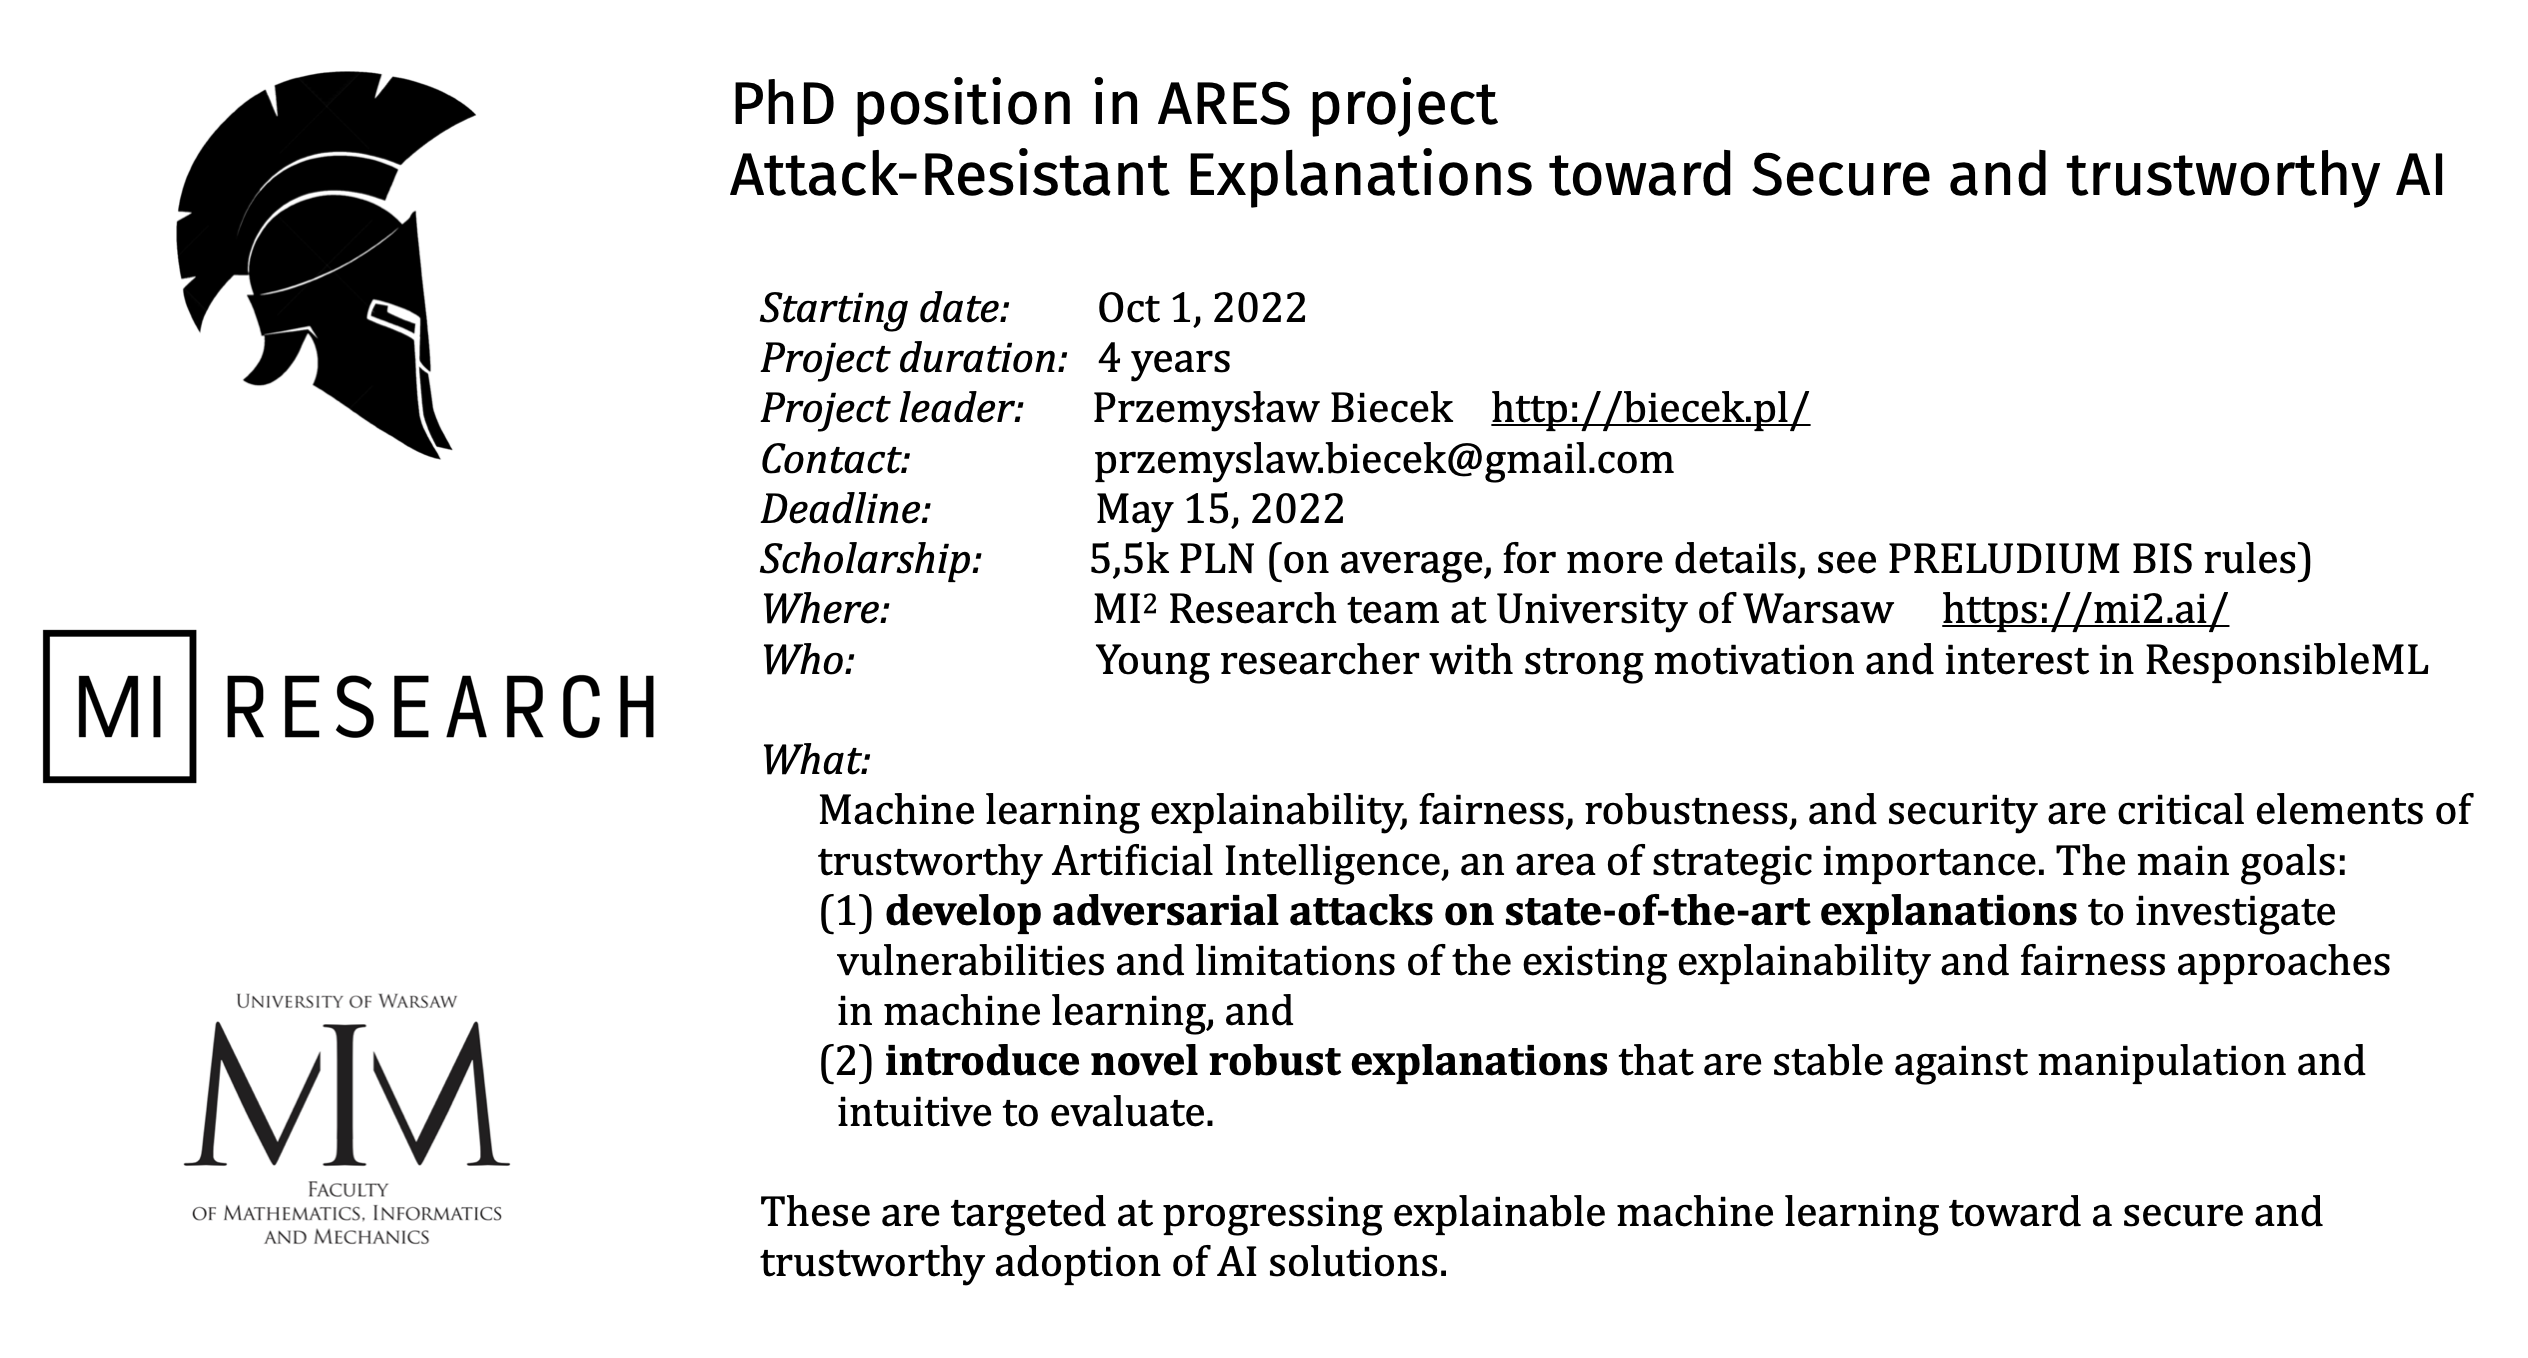
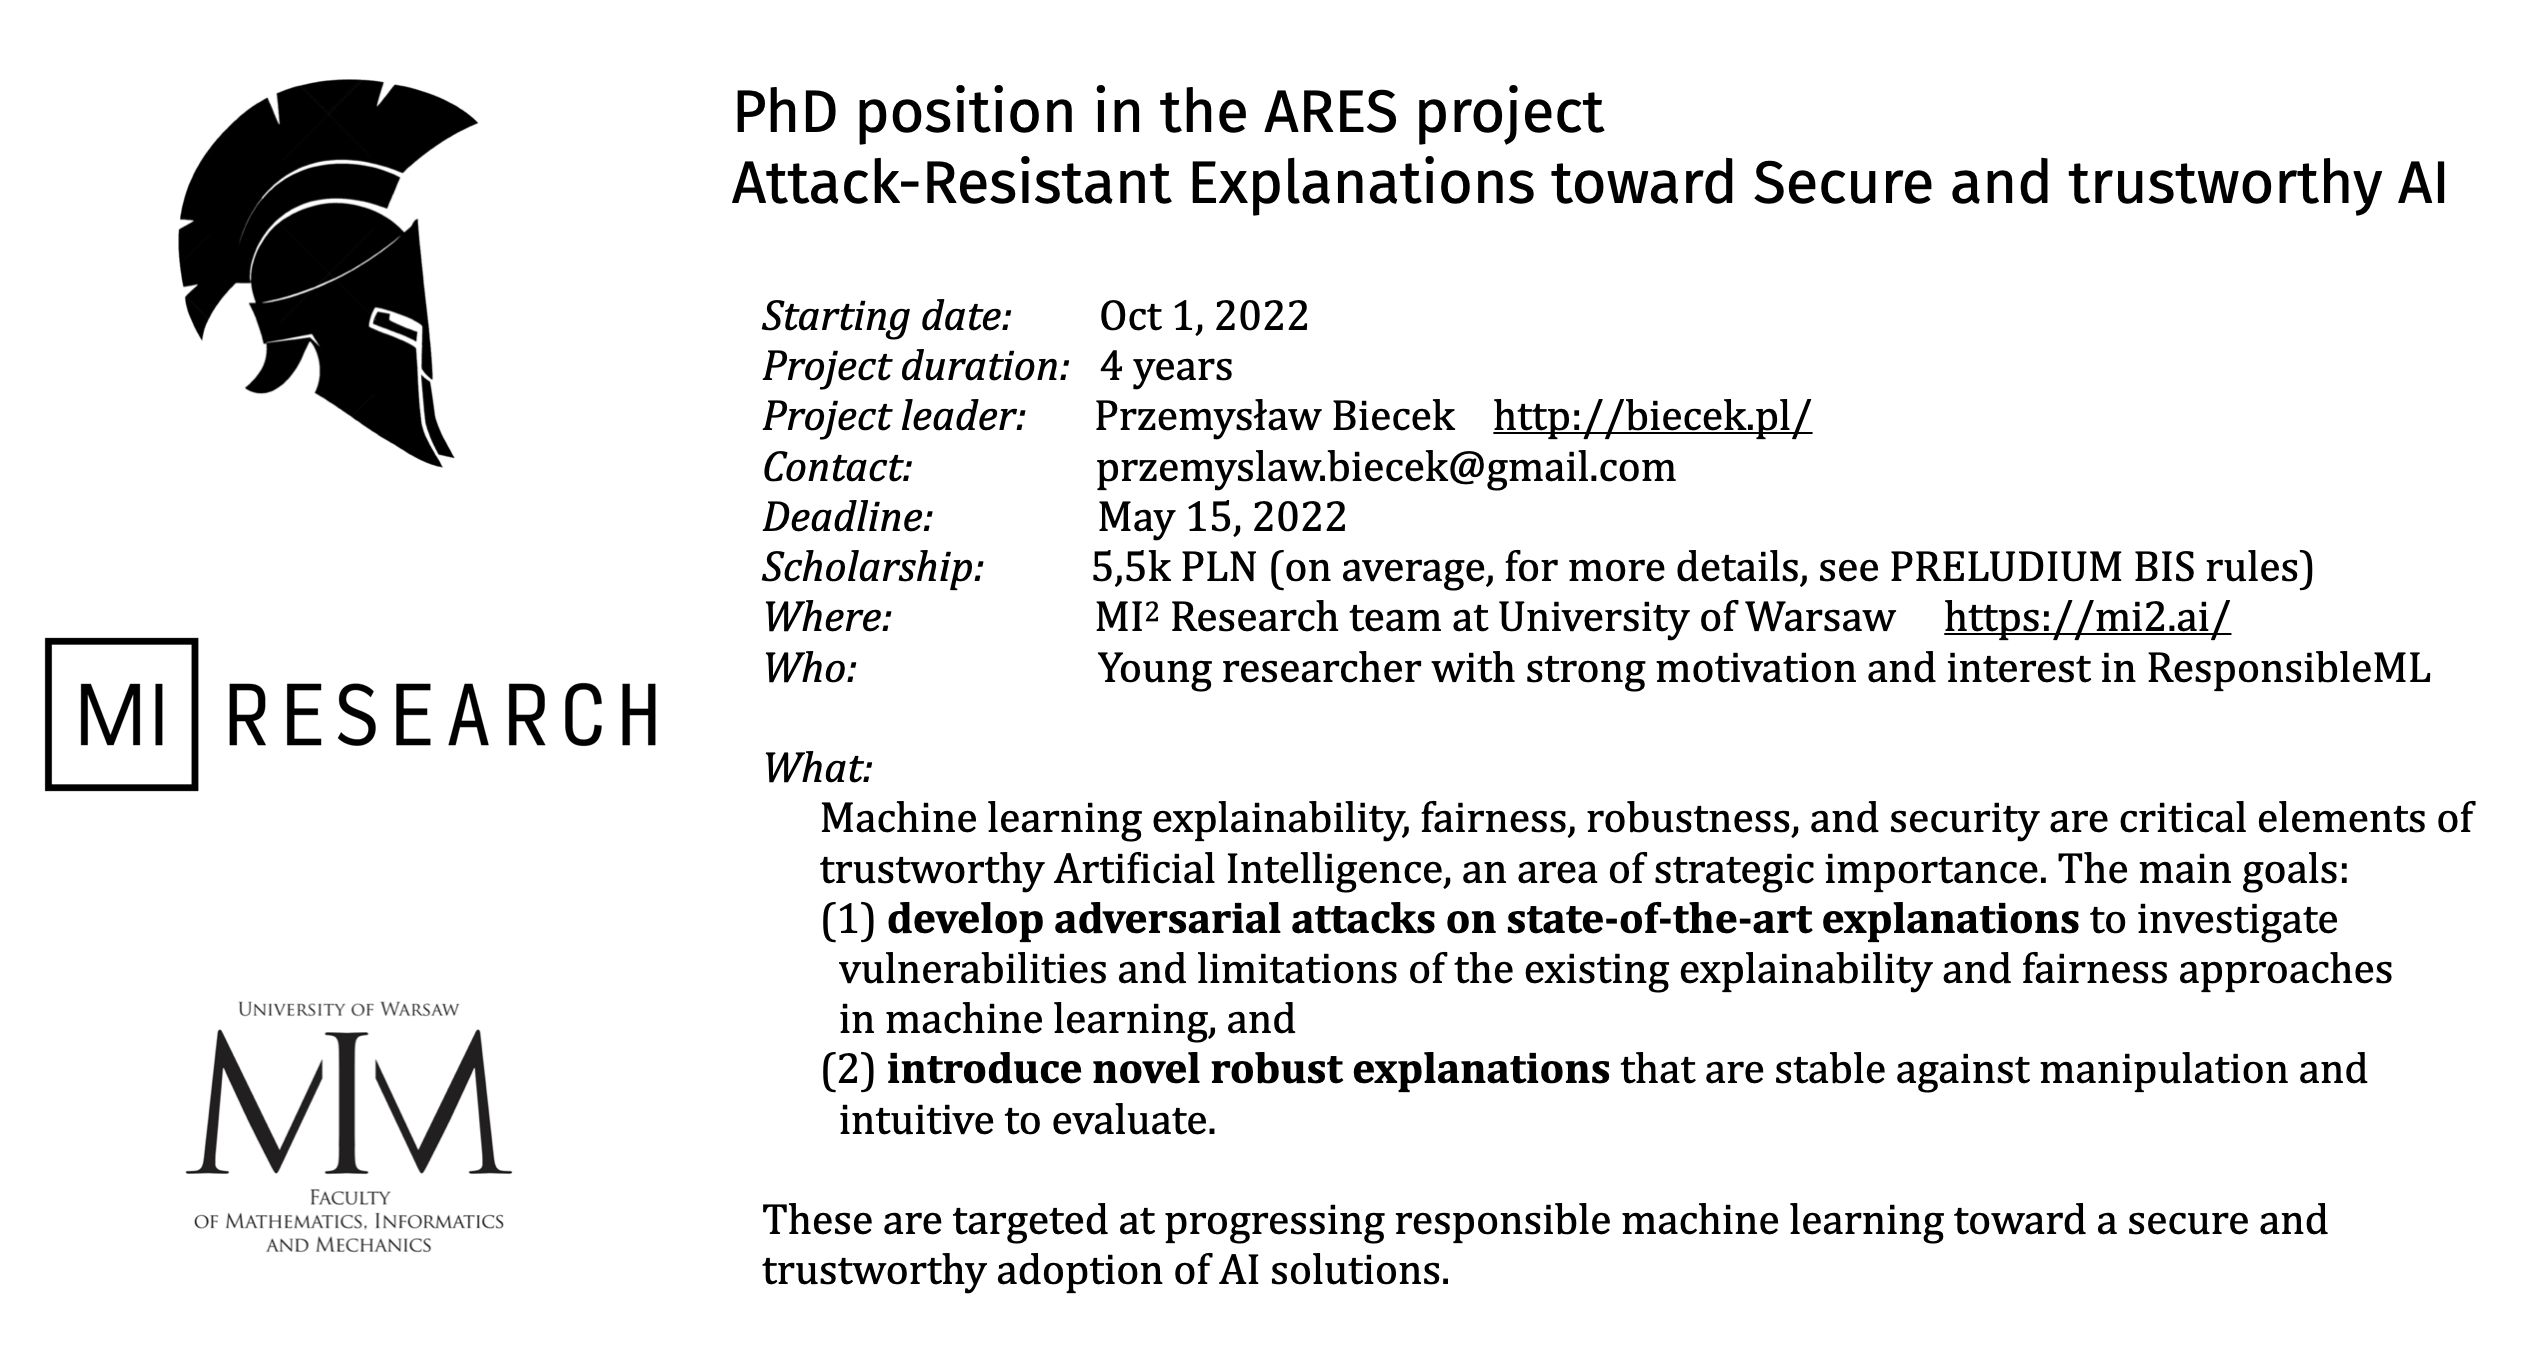
Render book

diff --git a/docs/open-positions.html b/docs/open-positions.html
@@ -254,13 +254,13 @@
 </div>
 <div id="ares" class="section level3 unnumbered hasAnchor">
 <h3>ARES<a href="open-positions.html#ares" class="anchor-section" aria-label="Anchor link to header"></a></h3>
-<p>PhD position funded by PRELUDIUM BIS grant ARES (<em>Attack-Resistant Explanations toward Secure and trustworthy AI</em>) funded by PRELUDIUM BIS grant.</p>
+<p>PhD position funded by PRELUDIUM BIS grant ARES (<em>Attack-Resistant Explanations toward Secure and trustworthy AI</em>) funded by the PRELUDIUM BIS grant.</p>
 <p>Machine learning explainability, fairness, robustness, and security are critical elements of trustworthy Artificial Intelligence, an area of strategic importance. The main goals:</p>
 <ul>
 <li>develop adversarial attacks on state-of-the-art explanations to investigate vulnerabilities and limitations of the existing explainability and fairness approaches in machine learning, and</li>
 <li>introduce novel robust explanations that are stable against manipulation and intuitive to evaluate.</li>
 </ul>
-<p>These are targeted at progressing explainable machine learning toward a secure and trustworthy adoption of AI solutions.</p>
+<p>These are targeted at progressing responsible machine learning toward a secure and trustworthy adoption of AI solutions.</p>
 <p><strong>Join us, and change the way how ML models will be explained and evaluated.</strong></p>
 <p><img src="images/mi2-ares.png" style="width: 100%;"></p>
 </div>
